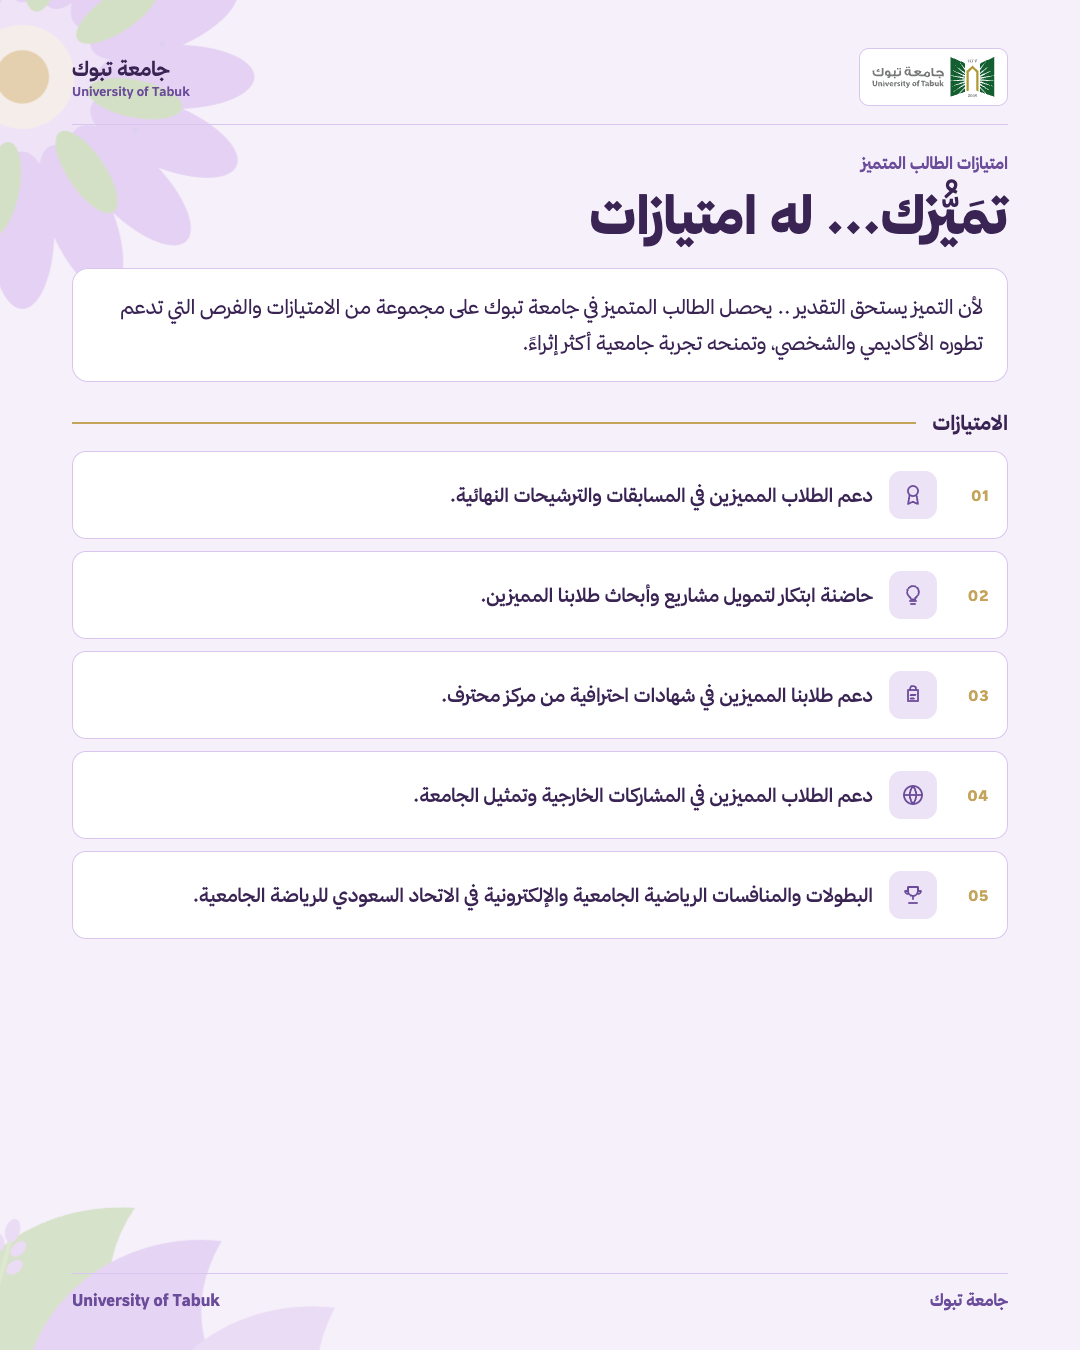
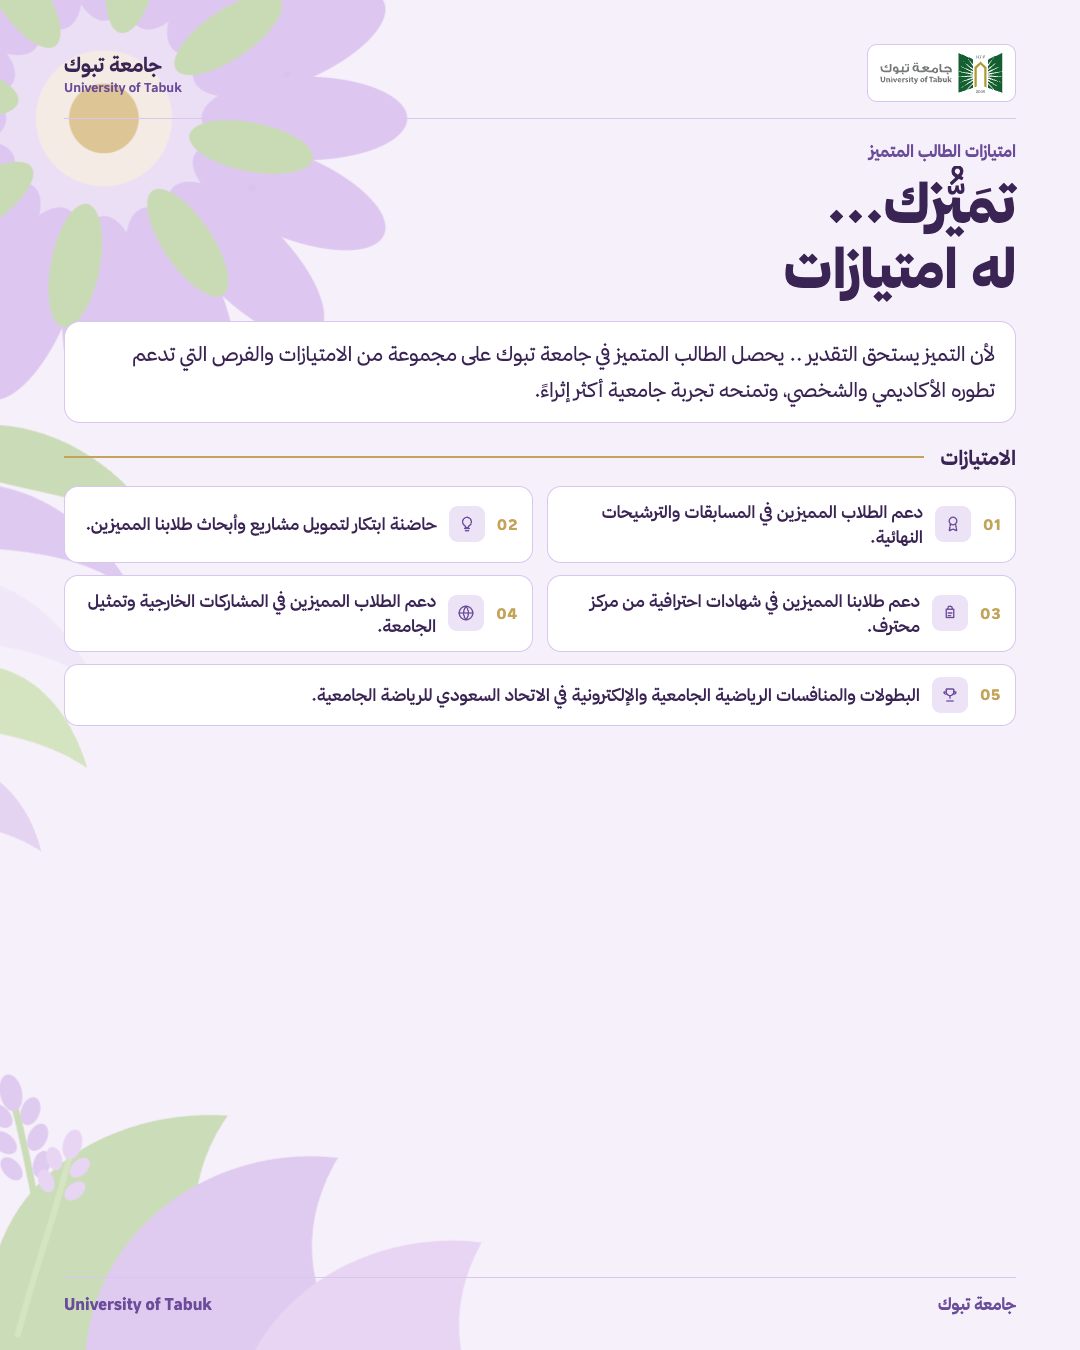
Enhance layout and styles in index.html for better aesthetics and responsiveness. Adjusted dimensions, opacity, and animations for various elements, updated padding and margins, and improved grid layout for cards. Replaced poster image with a new version.

diff --git a/poster/index.html b/poster/index.html
@@ -67,32 +67,43 @@
     }
 
     .art-flower {
-      top: -120px;
-      left: -180px;
-      width: 520px;
-      height: 520px;
-      opacity: 0.55;
+      top: -140px;
+      left: -160px;
+      width: 680px;
+      height: 680px;
+      opacity: 0.72;
       animation: floatA 10s ease-in-out infinite;
     }
 
     .art-left {
-      display: none;
+      top: 420px;
+      left: -140px;
+      width: 340px;
+      height: 480px;
+      opacity: 0.7;
+      animation: floatA 11s ease-in-out infinite reverse;
     }
 
     .art-bottom {
-      bottom: -160px;
-      left: -80px;
-      width: 480px;
-      height: 360px;
-      opacity: 0.5;
+      bottom: -140px;
+      left: -60px;
+      width: 640px;
+      height: 440px;
+      opacity: 0.68;
       animation: floatA 12s ease-in-out infinite reverse;
     }
 
     .content {
       position: relative;
       z-index: 2;
-      padding: 48px 72px 40px;
+      padding: 44px 64px 36px;
       height: 100%;
+      display: flex;
+      flex-direction: column;
+      justify-content: space-between;
+    }
+
+    .main {
       display: flex;
       flex-direction: column;
     }
@@ -101,8 +112,8 @@
       display: flex;
       align-items: center;
       justify-content: space-between;
-      padding-bottom: 18px;
-      margin-bottom: 28px;
+      padding-bottom: 16px;
+      margin-bottom: 22px;
       border-bottom: 1.5px solid #D9C6EF;
       animation: rise 0.6s ease both;
     }
@@ -147,10 +158,14 @@
 
     h1 {
       font-weight: 900;
-      font-size: 52px;
-      line-height: 1.22;
-      margin-bottom: 22px;
+      font-size: 54px;
+      line-height: 1.2;
+      margin-bottom: 20px;
       animation: rise 0.7s ease 0.1s both;
+    }
+
+    h1 span {
+      display: block;
     }
 
     .intro {
@@ -158,8 +173,8 @@
       font-weight: 400;
       line-height: 1.8;
       color: #3A2454;
-      margin-bottom: 28px;
-      padding: 20px 24px;
+      margin-bottom: 22px;
+      padding: 14px 20px;
       background: #FFFFFF;
       border: 1.5px solid #D9C6EF;
       border-radius: 16px;
@@ -184,33 +199,35 @@
     }
 
     .cards {
-      display: flex;
-      flex-direction: column;
-      gap: 12px;
-      flex: 1;
+      display: grid;
+      grid-template-columns: 1fr 1fr;
+      gap: 12px 14px;
     }
 
     .card {
       display: flex;
+      flex-direction: row;
       align-items: center;
-      gap: 16px;
-      flex: 1;
-      min-height: 88px;
-      padding: 14px 18px;
+      gap: 12px;
+      padding: 12px 14px;
       background: #FFFFFF;
       border: 1.5px solid #D9C6EF;
       border-radius: 14px;
       animation: rise 0.65s ease both;
     }
 
+    .card:last-child {
+      grid-column: 1 / -1;
+    }
+
     .card:nth-child(1) { animation-delay: 0.24s; }
-    .card:nth-child(2) { animation-delay: 0.3s; }
-    .card:nth-child(3) { animation-delay: 0.36s; }
-    .card:nth-child(4) { animation-delay: 0.42s; }
-    .card:nth-child(5) { animation-delay: 0.48s; }
+    .card:nth-child(2) { animation-delay: 0.28s; }
+    .card:nth-child(3) { animation-delay: 0.32s; }
+    .card:nth-child(4) { animation-delay: 0.36s; }
+    .card:nth-child(5) { animation-delay: 0.4s; }
 
     .num {
-      flex: 0 0 36px;
+      flex: 0 0 auto;
       font-size: 15px;
       font-weight: 700;
       color: #C4A35A;
@@ -218,10 +235,10 @@
     }
 
     .icon {
-      flex: 0 0 48px;
-      width: 48px;
-      height: 48px;
-      border-radius: 12px;
+      flex: 0 0 36px;
+      width: 36px;
+      height: 36px;
+      border-radius: 9px;
       background: #EDE3F7;
       color: #6B4C9A;
       display: flex;
@@ -230,15 +247,15 @@
     }
 
     .icon svg {
-      width: 24px;
-      height: 24px;
+      width: 18px;
+      height: 18px;
     }
 
     .card p {
       flex: 1;
-      font-size: 19px;
+      font-size: 17px;
       font-weight: 500;
-      line-height: 1.55;
+      line-height: 1.5;
       color: #3A2454;
     }
 
@@ -246,7 +263,6 @@
       display: flex;
       align-items: center;
       justify-content: space-between;
-      margin-top: 22px;
       padding-top: 16px;
       border-top: 1.5px solid #D9C6EF;
       font-size: 16px;
@@ -353,85 +369,87 @@
     </svg>
 
     <div class="content">
-      <header class="header">
-        <div class="logo-pill">
-          <img src="logo.svg" alt="جامعة تبوك" />
+      <div class="main">
+        <header class="header">
+          <div class="logo-pill">
+            <img src="logo.svg" alt="جامعة تبوك" />
+          </div>
+          <div class="header-text">
+            <strong>جامعة تبوك</strong>
+            <span>University of Tabuk</span>
+          </div>
+        </header>
+
+        <p class="kicker">امتيازات الطالب المتميز</p>
+        <h1>تمَيُّزك...<span>له امتيازات</span></h1>
+
+        <p class="intro">
+          لأن التميز يستحق التقدير .. يحصل الطالب المتميز في جامعة تبوك على مجموعة من الامتيازات والفرص التي تدعم تطوره الأكاديمي والشخصي، وتمنحه تجربة جامعية أكثر إثراءً.
+        </p>
+
+        <div class="section-label">الامتيازات</div>
+        <div class="cards">
+          <article class="card">
+            <span class="num">01</span>
+            <div class="icon" aria-hidden="true">
+              <svg viewBox="0 0 24 24" fill="none" stroke="currentColor" stroke-width="1.8" stroke-linecap="round" stroke-linejoin="round">
+                <circle cx="12" cy="8" r="5" />
+                <path d="M8.5 12.5 7 21l5-2.2L17 21l-1.5-8.5" />
+              </svg>
+            </div>
+            <p>دعم الطلاب المميزين في المسابقات والترشيحات النهائية.</p>
+          </article>
+
+          <article class="card">
+            <span class="num">02</span>
+            <div class="icon" aria-hidden="true">
+              <svg viewBox="0 0 24 24" fill="none" stroke="currentColor" stroke-width="1.8" stroke-linecap="round" stroke-linejoin="round">
+                <path d="M9 18h6" />
+                <path d="M10 21h4" />
+                <path d="M12 3a6 6 0 0 0-3.5 10.8c.9.7 1.5 1.7 1.5 2.7h4c0-1 .6-2 1.5-2.7A6 6 0 0 0 12 3Z" />
+              </svg>
+            </div>
+            <p>حاضنة ابتكار لتمويل مشاريع وأبحاث طلابنا المميزين.</p>
+          </article>
+
+          <article class="card">
+            <span class="num">03</span>
+            <div class="icon" aria-hidden="true">
+              <svg viewBox="0 0 24 24" fill="none" stroke="currentColor" stroke-width="1.8" stroke-linecap="round" stroke-linejoin="round">
+                <path d="M7 7h10v11H7z" />
+                <path d="M9 7V5.8A2.8 2.8 0 0 1 12 3a2.8 2.8 0 0 1 3 2.8V7" />
+                <path d="M9.5 12h5M9.5 15.5h3.5" />
+              </svg>
+            </div>
+            <p>دعم طلابنا المميزين في شهادات احترافية من مركز محترف.</p>
+          </article>
+
+          <article class="card">
+            <span class="num">04</span>
+            <div class="icon" aria-hidden="true">
+              <svg viewBox="0 0 24 24" fill="none" stroke="currentColor" stroke-width="1.8" stroke-linecap="round" stroke-linejoin="round">
+                <circle cx="12" cy="12" r="9" />
+                <path d="M3 12h18" />
+                <path d="M12 3a14 14 0 0 1 0 18 14 14 0 0 1 0-18Z" />
+              </svg>
+            </div>
+            <p>دعم الطلاب المميزين في المشاركات الخارجية وتمثيل الجامعة.</p>
+          </article>
+
+          <article class="card">
+            <span class="num">05</span>
+            <div class="icon" aria-hidden="true">
+              <svg viewBox="0 0 24 24" fill="none" stroke="currentColor" stroke-width="1.8" stroke-linecap="round" stroke-linejoin="round">
+                <path d="M7 4h10v4a5 5 0 0 1-10 0V4Z" />
+                <path d="M12 13v3" />
+                <path d="M8 20h8" />
+                <path d="M6 8H4a3 3 0 0 0 3 3" />
+                <path d="M18 8h2a3 3 0 0 1-3 3" />
+              </svg>
+            </div>
+            <p>البطولات والمنافسات الرياضية الجامعية والإلكترونية في الاتحاد السعودي للرياضة الجامعية.</p>
+          </article>
         </div>
-        <div class="header-text">
-          <strong>جامعة تبوك</strong>
-          <span>University of Tabuk</span>
-        </div>
-      </header>
-
-      <p class="kicker">امتيازات الطالب المتميز</p>
-      <h1>تمَيُّزك... له امتيازات</h1>
-
-      <p class="intro">
-        لأن التميز يستحق التقدير .. يحصل الطالب المتميز في جامعة تبوك على مجموعة من الامتيازات والفرص التي تدعم تطوره الأكاديمي والشخصي، وتمنحه تجربة جامعية أكثر إثراءً.
-      </p>
-
-      <div class="section-label">الامتيازات</div>
-      <div class="cards">
-        <article class="card">
-          <span class="num">01</span>
-          <div class="icon" aria-hidden="true">
-            <svg viewBox="0 0 24 24" fill="none" stroke="currentColor" stroke-width="1.8" stroke-linecap="round" stroke-linejoin="round">
-              <circle cx="12" cy="8" r="5" />
-              <path d="M8.5 12.5 7 21l5-2.2L17 21l-1.5-8.5" />
-            </svg>
-          </div>
-          <p>دعم الطلاب المميزين في المسابقات والترشيحات النهائية.</p>
-        </article>
-
-        <article class="card">
-          <span class="num">02</span>
-          <div class="icon" aria-hidden="true">
-            <svg viewBox="0 0 24 24" fill="none" stroke="currentColor" stroke-width="1.8" stroke-linecap="round" stroke-linejoin="round">
-              <path d="M9 18h6" />
-              <path d="M10 21h4" />
-              <path d="M12 3a6 6 0 0 0-3.5 10.8c.9.7 1.5 1.7 1.5 2.7h4c0-1 .6-2 1.5-2.7A6 6 0 0 0 12 3Z" />
-            </svg>
-          </div>
-          <p>حاضنة ابتكار لتمويل مشاريع وأبحاث طلابنا المميزين.</p>
-        </article>
-
-        <article class="card">
-          <span class="num">03</span>
-          <div class="icon" aria-hidden="true">
-            <svg viewBox="0 0 24 24" fill="none" stroke="currentColor" stroke-width="1.8" stroke-linecap="round" stroke-linejoin="round">
-              <path d="M7 7h10v11H7z" />
-              <path d="M9 7V5.8A2.8 2.8 0 0 1 12 3a2.8 2.8 0 0 1 3 2.8V7" />
-              <path d="M9.5 12h5M9.5 15.5h3.5" />
-            </svg>
-          </div>
-          <p>دعم طلابنا المميزين في شهادات احترافية من مركز محترف.</p>
-        </article>
-
-        <article class="card">
-          <span class="num">04</span>
-          <div class="icon" aria-hidden="true">
-            <svg viewBox="0 0 24 24" fill="none" stroke="currentColor" stroke-width="1.8" stroke-linecap="round" stroke-linejoin="round">
-              <circle cx="12" cy="12" r="9" />
-              <path d="M3 12h18" />
-              <path d="M12 3a14 14 0 0 1 0 18 14 14 0 0 1 0-18Z" />
-            </svg>
-          </div>
-          <p>دعم الطلاب المميزين في المشاركات الخارجية وتمثيل الجامعة.</p>
-        </article>
-
-        <article class="card">
-          <span class="num">05</span>
-          <div class="icon" aria-hidden="true">
-            <svg viewBox="0 0 24 24" fill="none" stroke="currentColor" stroke-width="1.8" stroke-linecap="round" stroke-linejoin="round">
-              <path d="M7 4h10v4a5 5 0 0 1-10 0V4Z" />
-              <path d="M12 13v3" />
-              <path d="M8 20h8" />
-              <path d="M6 8H4a3 3 0 0 0 3 3" />
-              <path d="M18 8h2a3 3 0 0 1-3 3" />
-            </svg>
-          </div>
-          <p>البطولات والمنافسات الرياضية الجامعية والإلكترونية في الاتحاد السعودي للرياضة الجامعية.</p>
-        </article>
       </div>
 
       <footer class="footer">
